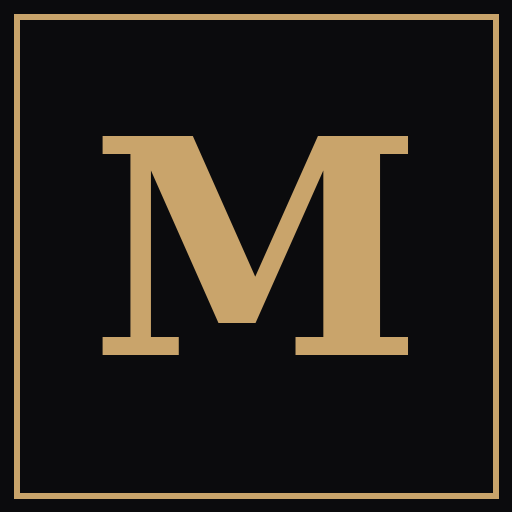
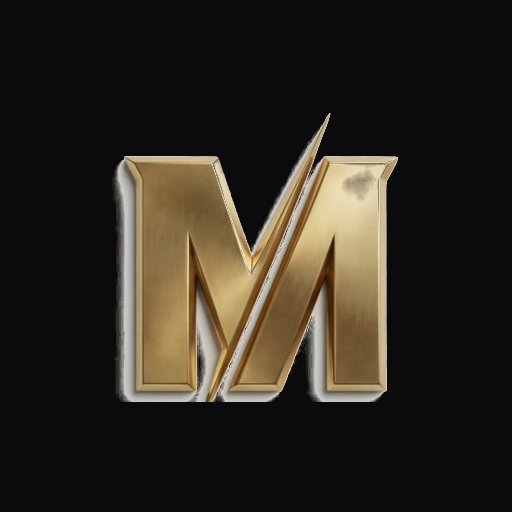
Add files via upload

Changed region(s): [[0.1875, 0.2188, 0.8125, 0.8125], [0.0, 0.0, 1.0, 1.0]]

diff --git a/index.html b/index.html
@@ -155,7 +155,10 @@
 <!-- ===== ШАПКА ===== -->
 <header class="sticky top-0 z-50 bg-noir/95 backdrop-blur border-b border-white/10">
   <div class="max-w-6xl mx-auto px-5 md:px-8 h-16 flex items-center justify-between">
-    <a href="#top" class="font-serif text-xl font-bold tracking-tight text-paper">MARKUS</a>
+    <a href="#top" class="flex items-center gap-2.5 font-serif text-xl font-bold tracking-tight text-paper">
+      <img src="/logo-m.png" alt="MARKUS" class="h-9 w-auto">
+      MARKUS
+    </a>
     <nav class="hidden md:flex items-center gap-8 text-sm font-medium text-paper/80">
       <a href="#tools" class="hover:text-gold transition-colors">Инструменты</a>
       <a href="#about" class="hover:text-gold transition-colors">О нас</a>
@@ -166,17 +169,17 @@
     <div class="flex items-center gap-3">
       <div class="relative" id="lang-switcher">
         <button id="lang-btn" type="button" class="flex items-center gap-1.5 text-paper/80 hover:text-gold hover:border-gold/50 transition-colors text-sm font-medium border border-white/15 rounded-full px-3 py-2">
-          <img id="lang-btn-flag" src="https://flagcdn.com/20x15/ru.png" width="20" height="15" alt="" class="rounded-sm"> <span id="lang-btn-label">RU</span>
+          <span id="lang-btn-flag" class="inline-block align-middle rounded-sm overflow-hidden" style="width:20px;height:15px"></span> <span id="lang-btn-label">RU</span>
         </button>
         <div id="lang-menu" class="hidden absolute right-0 mt-2 w-32 bg-noirCard border border-noirBorder rounded-xl shadow-xl overflow-hidden text-sm z-50">
-          <button type="button" class="lang-option w-full flex items-center gap-2 px-4 py-2.5 hover:bg-white/5 text-paper/90 transition-colors" data-lang="ru" data-flag="ru"><img src="https://flagcdn.com/20x15/ru.png" width="20" height="15" alt="" class="rounded-sm"> <span>RU</span></button>
-          <button type="button" class="lang-option w-full flex items-center gap-2 px-4 py-2.5 hover:bg-white/5 text-paper/90 transition-colors" data-lang="uz" data-flag="uz"><img src="https://flagcdn.com/20x15/uz.png" width="20" height="15" alt="" class="rounded-sm"> <span>UZ</span></button>
-          <button type="button" class="lang-option w-full flex items-center gap-2 px-4 py-2.5 hover:bg-white/5 text-paper/90 transition-colors" data-lang="en" data-flag="gb"><img src="https://flagcdn.com/20x15/gb.png" width="20" height="15" alt="" class="rounded-sm"> <span>EN</span></button>
-          <button type="button" class="lang-option w-full flex items-center gap-2 px-4 py-2.5 hover:bg-white/5 text-paper/90 transition-colors" data-lang="tr" data-flag="tr"><img src="https://flagcdn.com/20x15/tr.png" width="20" height="15" alt="" class="rounded-sm"> <span>TR</span></button>
-          <button type="button" class="lang-option w-full flex items-center gap-2 px-4 py-2.5 hover:bg-white/5 text-paper/90 transition-colors" data-lang="zh-CN" data-flag="cn"><img src="https://flagcdn.com/20x15/cn.png" width="20" height="15" alt="" class="rounded-sm"> <span>CN</span></button>
-          <button type="button" class="lang-option w-full flex items-center gap-2 px-4 py-2.5 hover:bg-white/5 text-paper/90 transition-colors" data-lang="de" data-flag="de"><img src="https://flagcdn.com/20x15/de.png" width="20" height="15" alt="" class="rounded-sm"> <span>DE</span></button>
-          <button type="button" class="lang-option w-full flex items-center gap-2 px-4 py-2.5 hover:bg-white/5 text-paper/90 transition-colors" data-lang="fr" data-flag="fr"><img src="https://flagcdn.com/20x15/fr.png" width="20" height="15" alt="" class="rounded-sm"> <span>FR</span></button>
-          <button type="button" class="lang-option w-full flex items-center gap-2 px-4 py-2.5 hover:bg-white/5 text-paper/90 transition-colors" data-lang="ar" data-flag="sa"><img src="https://flagcdn.com/20x15/sa.png" width="20" height="15" alt="" class="rounded-sm"> <span>SA</span></button>
+          <button type="button" class="lang-option w-full flex items-center gap-2 px-4 py-2.5 hover:bg-white/5 text-paper/90 transition-colors" data-lang="ru" data-flag="ru"><span class="flag-icon inline-block rounded-sm overflow-hidden" style="width:20px;height:15px"></span> <span>RU</span></button>
+          <button type="button" class="lang-option w-full flex items-center gap-2 px-4 py-2.5 hover:bg-white/5 text-paper/90 transition-colors" data-lang="uz" data-flag="uz"><span class="flag-icon inline-block rounded-sm overflow-hidden" style="width:20px;height:15px"></span> <span>UZ</span></button>
+          <button type="button" class="lang-option w-full flex items-center gap-2 px-4 py-2.5 hover:bg-white/5 text-paper/90 transition-colors" data-lang="en" data-flag="gb"><span class="flag-icon inline-block rounded-sm overflow-hidden" style="width:20px;height:15px"></span> <span>EN</span></button>
+          <button type="button" class="lang-option w-full flex items-center gap-2 px-4 py-2.5 hover:bg-white/5 text-paper/90 transition-colors" data-lang="tr" data-flag="tr"><span class="flag-icon inline-block rounded-sm overflow-hidden" style="width:20px;height:15px"></span> <span>TR</span></button>
+          <button type="button" class="lang-option w-full flex items-center gap-2 px-4 py-2.5 hover:bg-white/5 text-paper/90 transition-colors" data-lang="zh-CN" data-flag="cn"><span class="flag-icon inline-block rounded-sm overflow-hidden" style="width:20px;height:15px"></span> <span>CN</span></button>
+          <button type="button" class="lang-option w-full flex items-center gap-2 px-4 py-2.5 hover:bg-white/5 text-paper/90 transition-colors" data-lang="de" data-flag="de"><span class="flag-icon inline-block rounded-sm overflow-hidden" style="width:20px;height:15px"></span> <span>DE</span></button>
+          <button type="button" class="lang-option w-full flex items-center gap-2 px-4 py-2.5 hover:bg-white/5 text-paper/90 transition-colors" data-lang="fr" data-flag="fr"><span class="flag-icon inline-block rounded-sm overflow-hidden" style="width:20px;height:15px"></span> <span>FR</span></button>
+          <button type="button" class="lang-option w-full flex items-center gap-2 px-4 py-2.5 hover:bg-white/5 text-paper/90 transition-colors" data-lang="ar" data-flag="sa"><span class="flag-icon inline-block rounded-sm overflow-hidden" style="width:20px;height:15px"></span> <span>SA</span></button>
         </div>
       </div>
       <a href="#contact" class="bg-gold hover:bg-goldLight transition-colors text-noir text-sm font-semibold px-5 py-2.5 rounded-full">
@@ -735,7 +738,10 @@
 <footer class="bg-noir text-paper/60 border-t border-white/10">
   <div class="max-w-6xl mx-auto px-5 md:px-8 py-14 grid md:grid-cols-4 gap-10 text-sm">
     <div>
-      <div class="font-serif text-paper text-lg font-bold mb-3">MARKUS</div>
+      <div class="flex items-center gap-2 font-serif text-paper text-lg font-bold mb-3">
+        <img src="/logo-m.png" alt="" class="h-6 w-auto">
+        MARKUS
+      </div>
       <p class="leading-relaxed mb-4">Бухгалтерские и консалтинговые услуги для бизнеса любого масштаба в Республике Узбекистан.</p>
       <div class="flex gap-2">
         <a href="https://t.me/MarkusJW_bot" target="_blank" rel="noopener" class="border border-white/15 hover:border-gold transition-colors rounded-full px-3 py-1.5 text-xs">Telegram</a>
@@ -1417,6 +1423,23 @@ document.querySelectorAll('.tool-card').forEach(btn => {
   new MutationObserver(resetBodyOffset).observe(document.body, { attributes: true, attributeFilter: ['style'] });
   resetBodyOffset();
 
+  // Флаги нарисованы прямо в коде (SVG), а не загружаются с внешнего сайта —
+  // так они гарантированно видны везде, даже если браузер (например Яндекс с "Защитой от трекеров")
+  // блокирует картинки со сторонних CDN.
+  const FLAG_SVGS = {
+    ru: '<svg viewBox="0 0 20 15" xmlns="http://www.w3.org/2000/svg"><rect width="20" height="15" fill="#fff"/><rect y="5" width="20" height="5" fill="#0039A6"/><rect y="10" width="20" height="5" fill="#D52B1E"/></svg>',
+    uz: '<svg viewBox="0 0 20 15" xmlns="http://www.w3.org/2000/svg"><rect width="20" height="15" fill="#1EB53A"/><rect width="20" height="6.7" fill="#0099B5"/><rect y="6.7" width="20" height="0.6" fill="#CE1126"/><rect y="7.3" width="20" height="0.4" fill="#fff"/><rect y="7.7" width="20" height="0.6" fill="#CE1126"/><circle cx="3.3" cy="3" r="1.6" fill="#fff"/><circle cx="3.9" cy="3" r="1.6" fill="#0099B5"/></svg>',
+    gb: '<svg viewBox="0 0 20 15" xmlns="http://www.w3.org/2000/svg"><rect width="20" height="15" fill="#00247D"/><path d="M0,0 L20,15 M20,0 L0,15" stroke="#fff" stroke-width="3"/><path d="M0,0 L20,15 M20,0 L0,15" stroke="#CF142B" stroke-width="1"/><rect x="8" width="4" height="15" fill="#fff"/><rect y="5.5" width="20" height="4" fill="#fff"/><rect x="8.7" width="2.6" height="15" fill="#CF142B"/><rect y="6.2" width="20" height="2.6" fill="#CF142B"/></svg>',
+    tr: '<svg viewBox="0 0 20 15" xmlns="http://www.w3.org/2000/svg"><rect width="20" height="15" fill="#E30A17"/><circle cx="7.5" cy="7.5" r="4" fill="#fff"/><circle cx="8.7" cy="7.5" r="3.2" fill="#E30A17"/><circle cx="12" cy="7.5" r="1.3" fill="#fff"/></svg>',
+    cn: '<svg viewBox="0 0 20 15" xmlns="http://www.w3.org/2000/svg"><rect width="20" height="15" fill="#DE2910"/><polygon points="4,2.2 4.7,4.3 6.8,4.3 5.1,5.6 5.7,7.7 4,6.4 2.3,7.7 2.9,5.6 1.2,4.3 3.3,4.3" fill="#FFDE00"/><circle cx="7.6" cy="1.8" r="0.5" fill="#FFDE00"/><circle cx="8.8" cy="3.3" r="0.5" fill="#FFDE00"/><circle cx="8.8" cy="5.5" r="0.5" fill="#FFDE00"/><circle cx="7.5" cy="6.8" r="0.5" fill="#FFDE00"/></svg>',
+    de: '<svg viewBox="0 0 20 15" xmlns="http://www.w3.org/2000/svg"><rect width="20" height="5" fill="#000"/><rect y="5" width="20" height="5" fill="#DD0000"/><rect y="10" width="20" height="5" fill="#FFCE00"/></svg>',
+    fr: '<svg viewBox="0 0 20 15" xmlns="http://www.w3.org/2000/svg"><rect width="6.67" height="15" fill="#0055A4"/><rect x="6.67" width="6.67" height="15" fill="#fff"/><rect x="13.33" width="6.67" height="15" fill="#EF4135"/></svg>',
+    sa: '<svg viewBox="0 0 20 15" xmlns="http://www.w3.org/2000/svg"><rect width="20" height="15" fill="#006C35"/><rect x="2" y="10.5" width="16" height="1.3" fill="#fff"/><rect x="2" y="9.3" width="2" height="2.6" fill="#fff"/></svg>',
+  };
+  function setFlagIcon(el, code) {
+    if (el) el.innerHTML = FLAG_SVGS[code] || '';
+  }
+
   const langLabels = { ru: 'RU', uz: 'UZ', en: 'EN', tr: 'TR', 'zh-CN': 'ZH', de: 'DE', fr: 'FR', ar: 'AR' };
   function getCurrentLang() {
     const match = document.cookie.match(/googtrans=\/ru\/([a-zA-Z-]+)/);
@@ -1440,7 +1463,10 @@ document.querySelectorAll('.tool-card').forEach(btn => {
   const langFlags = { ru: 'ru', uz: 'uz', en: 'gb', tr: 'tr', 'zh-CN': 'cn', de: 'de', fr: 'fr', ar: 'sa' };
   const curLang = getCurrentLang();
   langLabel.textContent = langLabels[curLang] || 'RU';
-  langFlag.src = `https://flagcdn.com/20x15/${langFlags[curLang] || 'ru'}.png`;
+  setFlagIcon(langFlag, langFlags[curLang] || 'ru');
+  document.querySelectorAll('.lang-option').forEach(btn => {
+    setFlagIcon(btn.querySelector('.flag-icon'), btn.dataset.flag);
+  });
   langBtn.addEventListener('click', (e) => { e.stopPropagation(); langMenu.classList.toggle('hidden'); });
   document.addEventListener('click', () => langMenu.classList.add('hidden'));
   document.querySelectorAll('.lang-option').forEach(btn => {
